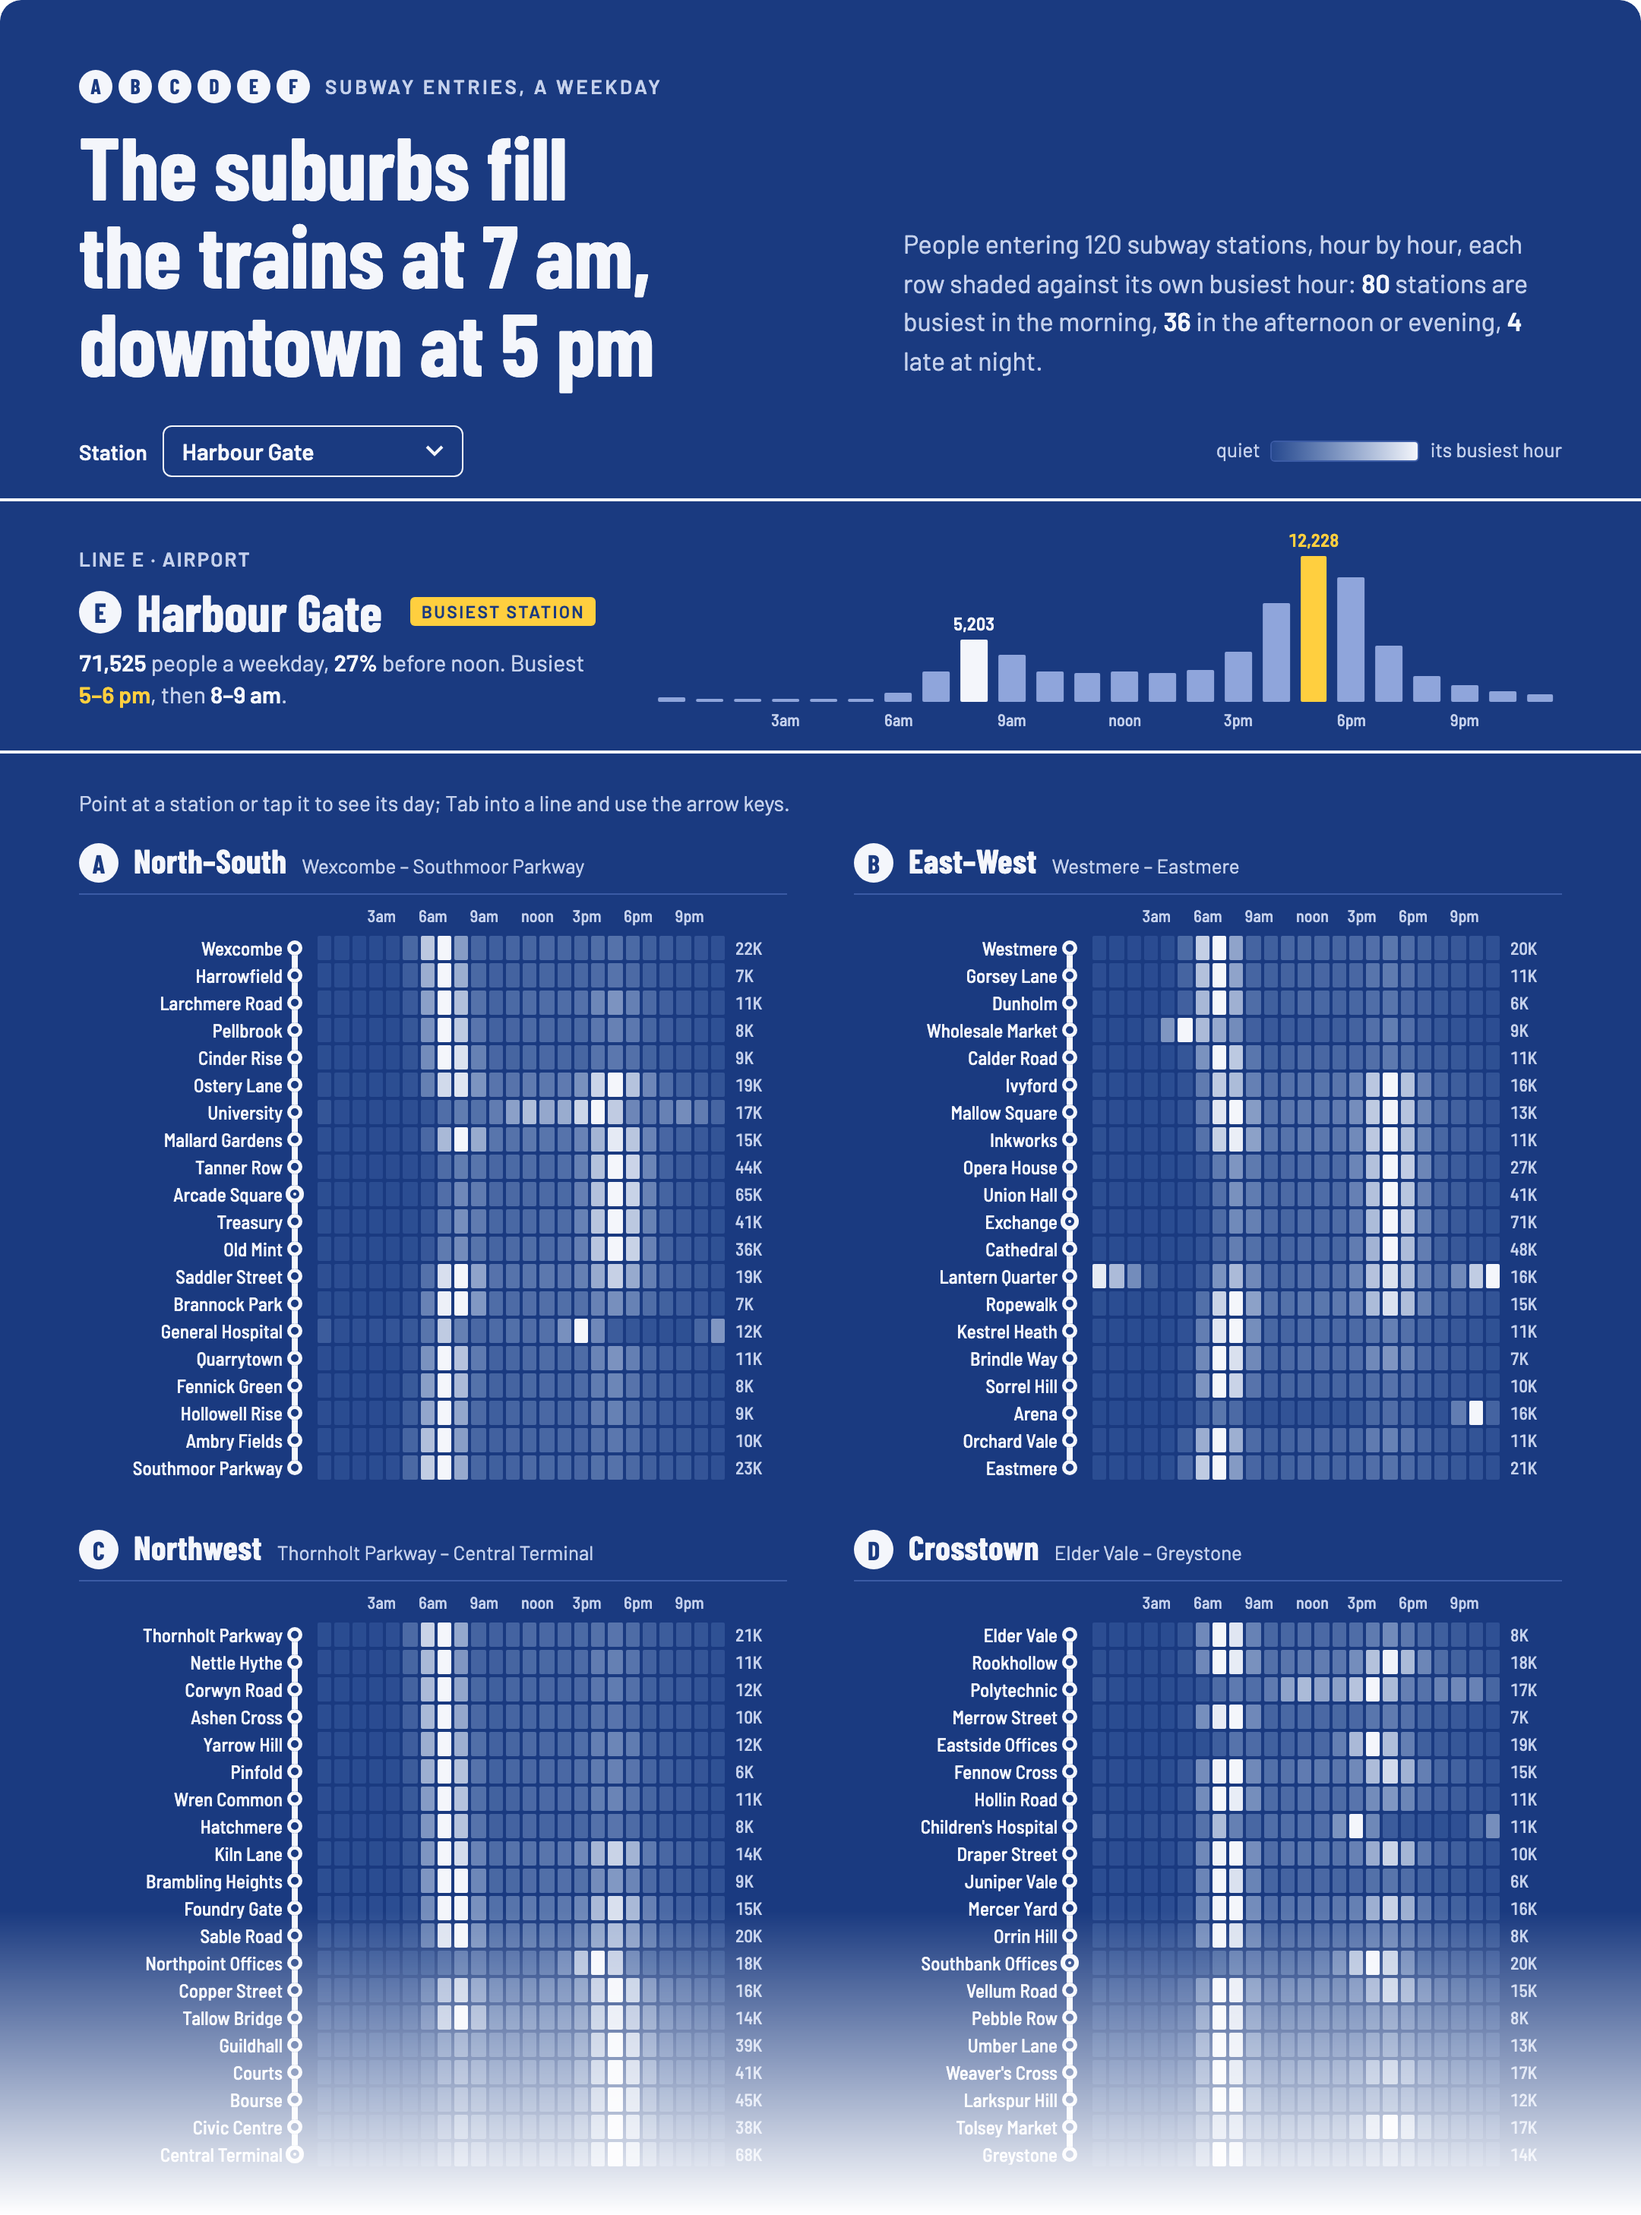
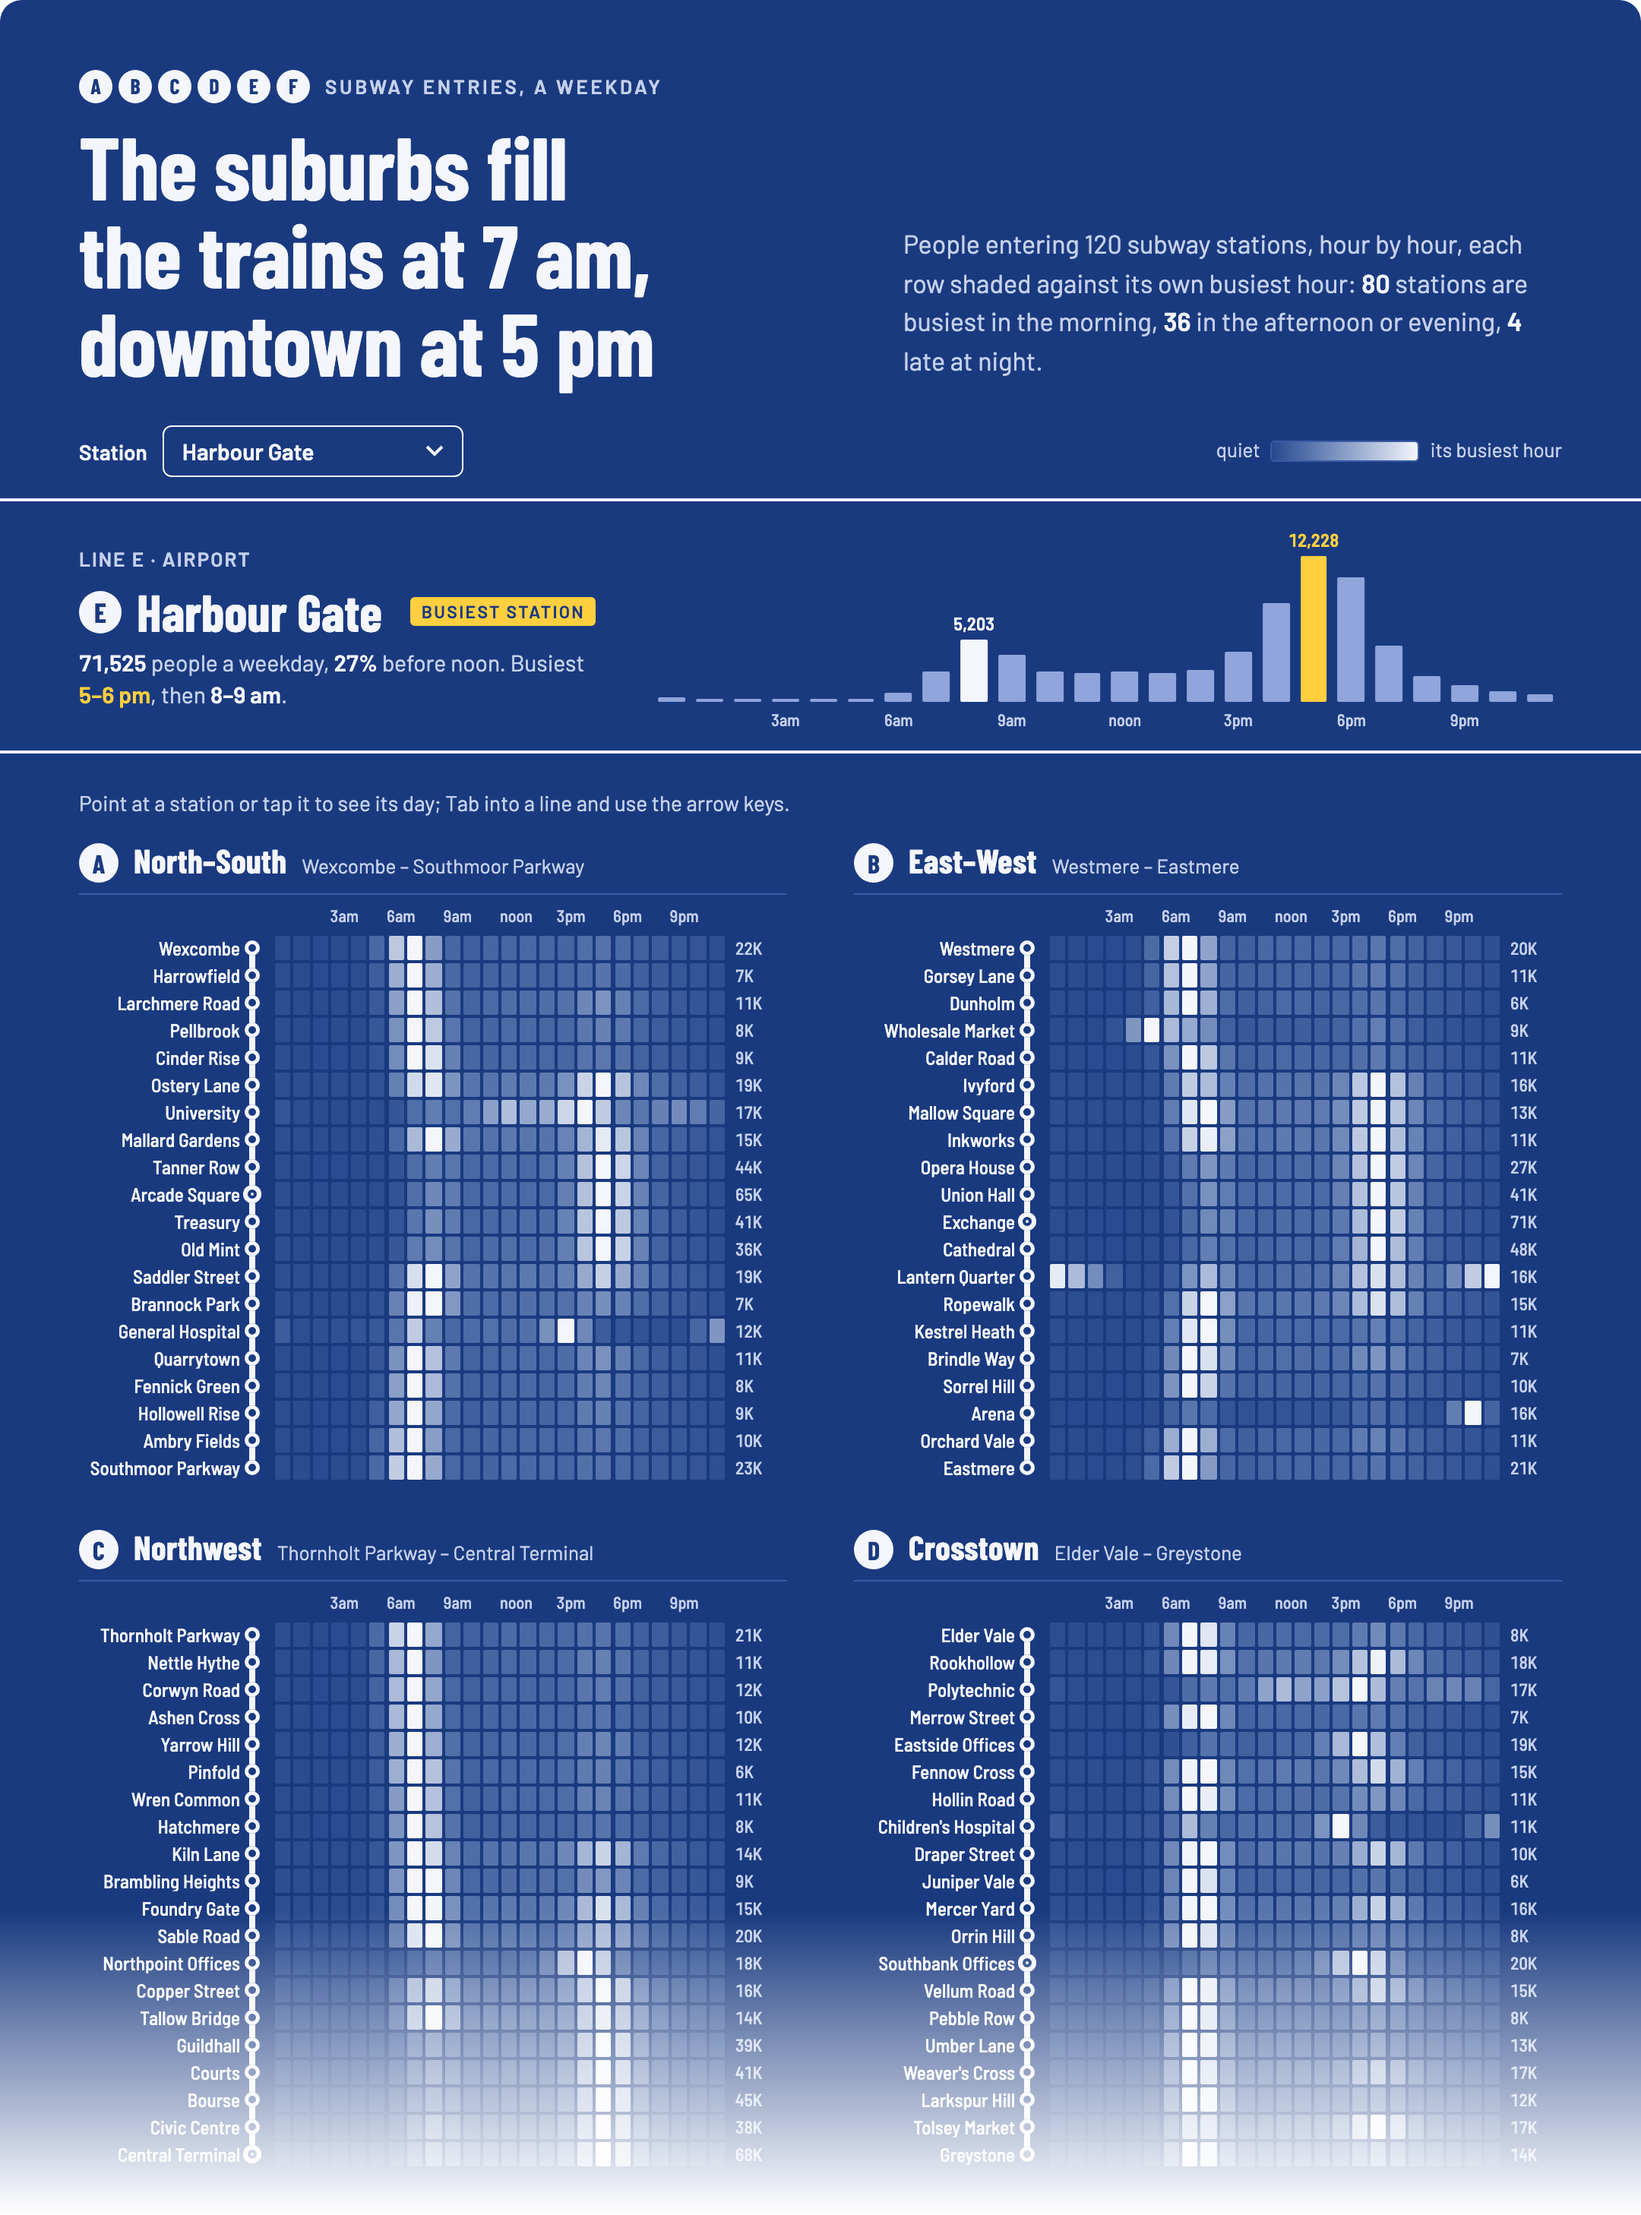
Recipe 38 (heatmap panels, subway): the station names' room sized to the longest name, "Embankment Offices", in a lit name's weight with the stop's gap and 2px to spare (128px from 156, 122px from 132 on a phone), so no panel keeps empty space left of its names

diff --git a/public/gallery/posters/subway-route-panel/index.html b/public/gallery/posters/subway-route-panel/index.html
@@ -347,9 +347,11 @@ const station = (room, gutter, totals) => slat({ // totals: the day's total at t
     <${Plot} orientation="across" class="hours" pct=${() => d.pct}>${d.index === 0 ? HourTop : Hour}<//>
     ${totals ? html`<${Label} edge="end" class="total" aria-hidden="true">${() => compact.format(d.total)}<//>` : ""}
   </div>`);
-// On a phone the day's totals leave the rows (the station sign gives them), so the names keep their room
-const Station = station({ start: 156, end: 40, before: 20 }, 22, true);
-const StationNarrow = station({ start: 132, end: 8, before: 20 }, 20, false);
+// The names' room fits the longest name, in the weight of a lit one, with the stop's gap and 2px to spare: "Embankment
+// Offices" is 103.3px at 12.5px (99.2px at 12px). Measure again when the names change. On a phone the day's totals leave
+// the rows (the station sign gives them), so the names keep their room.
+const Station = station({ start: 128, end: 40, before: 20 }, 22, true);
+const StationNarrow = station({ start: 122, end: 8, before: 20 }, 20, false);
 
 // An hour of the station shown, in real numbers: its busiest hour in yellow with its count, the busiest of the other
 // half of the day in white with its count, the clock under every third hour (every sixth on a phone)
